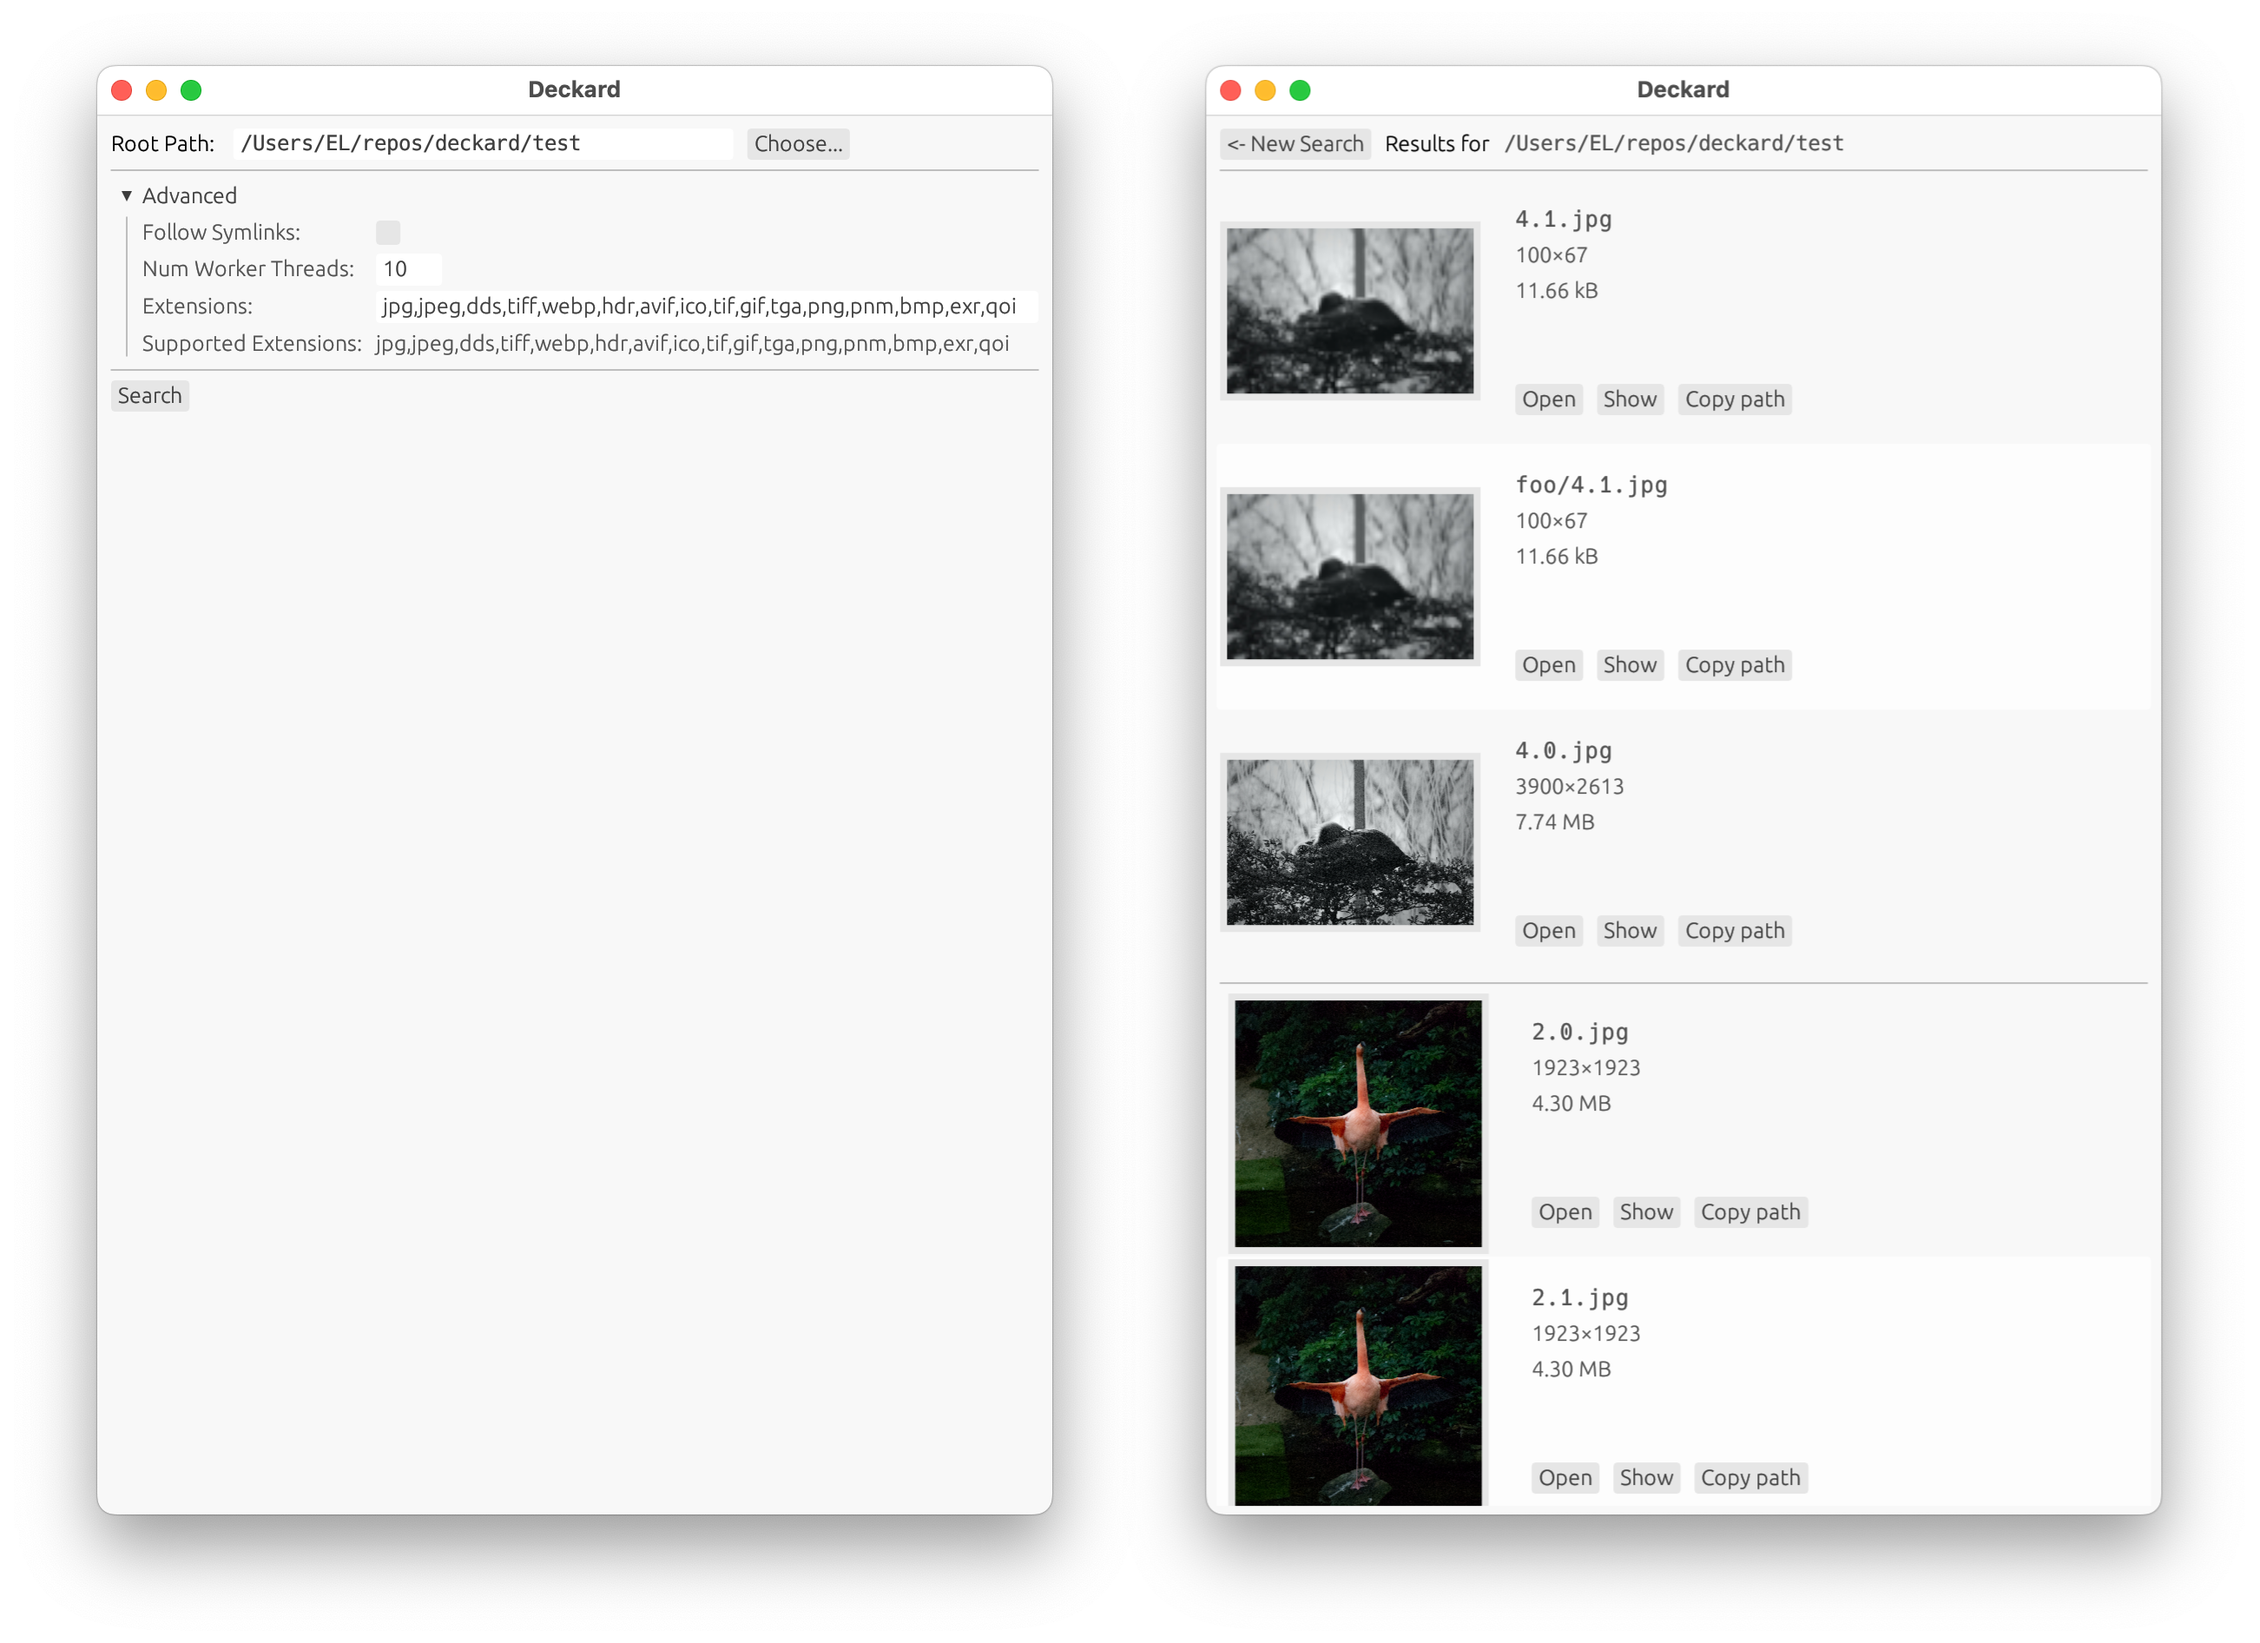
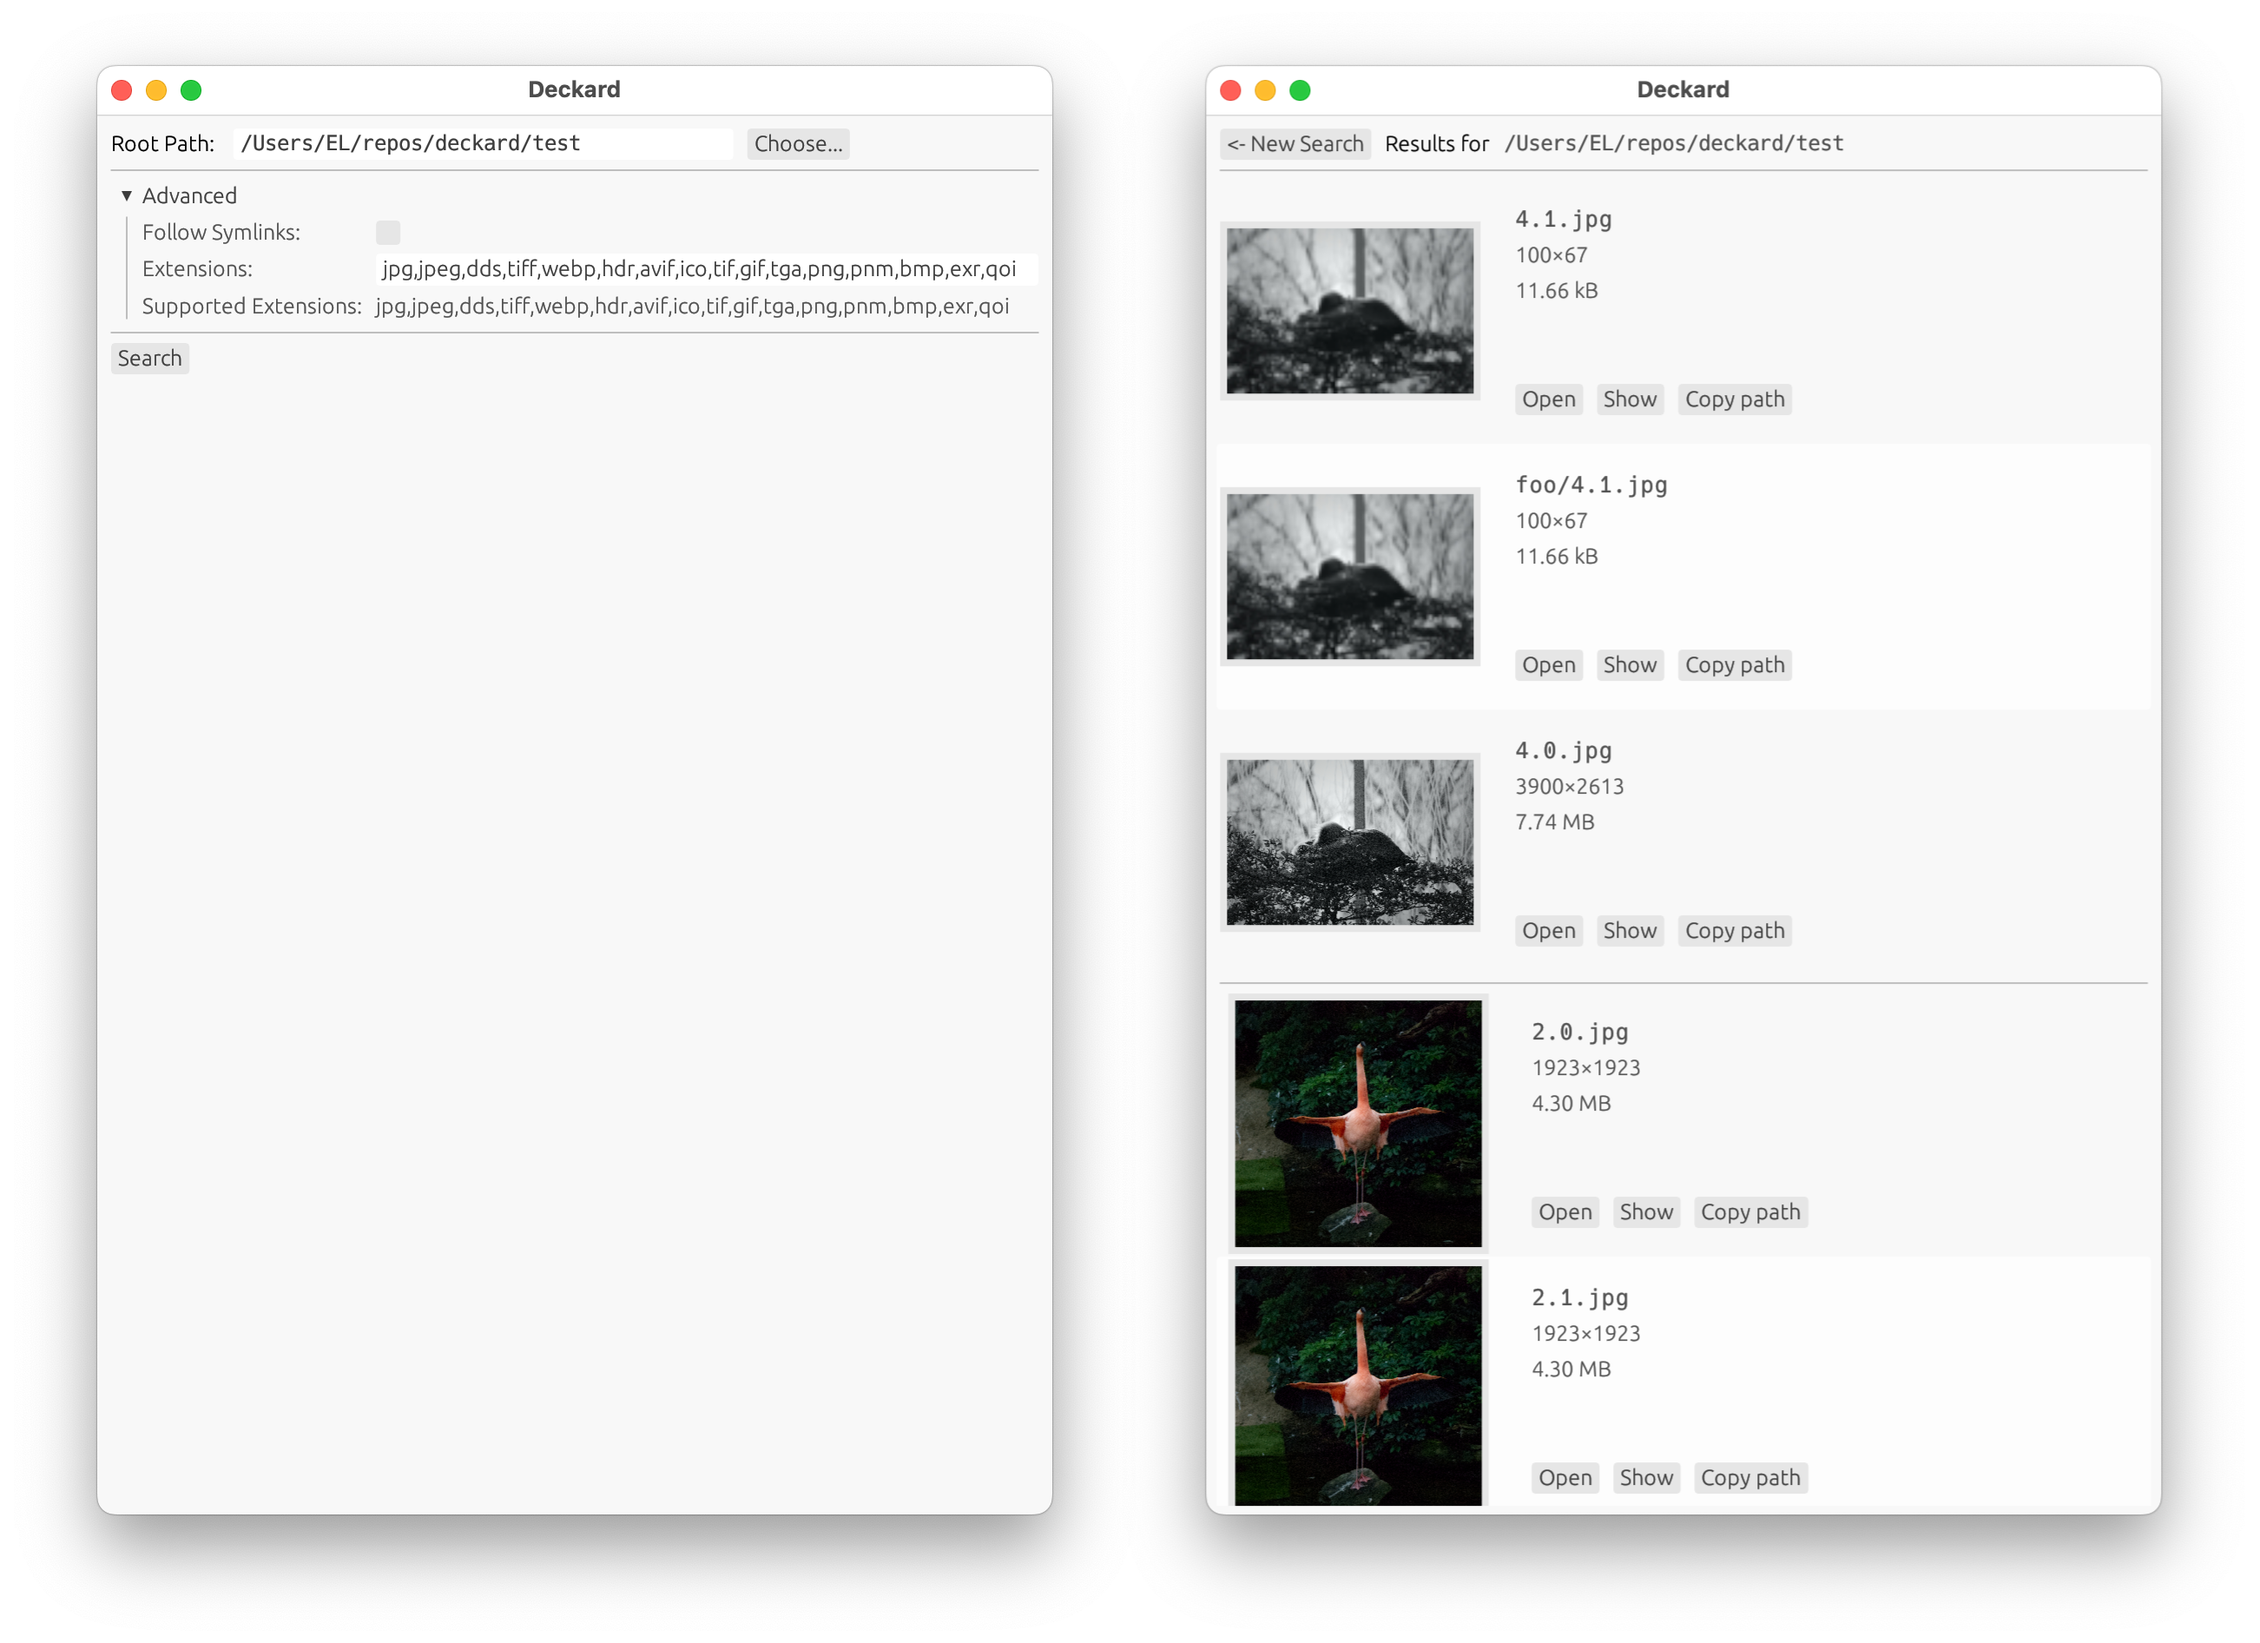
Switched to rayon, dashmap, removed Num Worker Threads option.

Changed region(s): [[0.0622, 0.1559, 0.4668, 0.2495]]

diff --git a/src/searcher.rs b/src/searcher.rs
@@ -2,22 +2,23 @@ use crate::misc::Image;
 
 use std::path::PathBuf;
 use std::thread;
-use std::sync::{Arc, Mutex};
+use std::sync::Arc;
 use std::sync::atomic::{AtomicBool, Ordering};
-use std::collections::{HashMap, HashSet};
+use std::collections::HashSet;
 use std::thread::JoinHandle;
 
 use walkdir::WalkDir;
-
-use magnetic::spmc::spmc_queue;
-use magnetic::buffer::dynamic::DynamicBuffer;
-use magnetic::{Producer, Consumer};
 
 use image_hasher::HasherConfig;
 
 use maplit::hashset;
 
 use lazy_static::lazy_static;
+
+use rayon::prelude::*;
+
+use dashmap::{DashMap, DashSet};
+
 
 lazy_static! {
     pub static ref SUPPORTED_EXTS: HashSet<&'static str> = hashset!{
@@ -58,109 +59,81 @@ impl SearchResults {
 struct SearcherInner {
     root: PathBuf,
     follow_sym: bool,
-    num_threads: usize,
     max_depth: Option<usize>,
     exts: HashSet<String>, // Extentions to consider
     cancel: AtomicBool,
 }
 
 impl SearcherInner {
+
     fn search(&self) -> SearchResults {
-        // The size is somewhat arbitrary, but its expected to take longer to
-        // process each unit of work than to produce it, so having twice as large
-        // a buffer as there are worker threads should ensure the workers always
-        // have work waiting.
-        let work_buf = DynamicBuffer::new(2 * self.num_threads)
-            .expect("Error allocationg spmc buffer");
-        let (queue_p, queue_c) = spmc_queue::<Option<std::path::PathBuf>, _>(work_buf);
-        let queue_c = Arc::new(queue_c);
+        let map = DashMap::new();
+        let errors = DashSet::new();
 
-        let map = Arc::new(Mutex::new(HashMap::new()));
-        let errors = Arc::new(Mutex::new(vec![]));
-
-        let mut threads = Vec::new();
-        for _ in 1..=self.num_threads {
-            let queue_c = queue_c.clone();
-            let map = map.clone();
-            let errors = errors.clone();
-
-            threads.push(thread::spawn(move || {
-                let hasher = HasherConfig::new().to_hasher();
-                loop {
-                    let Some(path) = queue_c.pop().expect("queue pop error") else {
-                        return; // We're done!
-                    };
-                    let image = match image::open(path.clone()) {
-                        Ok(x) => x,
-                        Err(e) => {
-                            let err = format!("Error opening image {}: {e}", path.display());
-                            errors.lock().expect("error vec lock error").push(err);
-                            continue;
-                        },
-                    };
-
-                    let hash = hasher.hash_image(&image);
-                    let mut map = map.lock().expect("image hash hashmap lock error");
-                    let v = map.entry(hash).or_insert(Vec::new());
-                    v.push(path);
-                }
-            }));
-        }
-
+        let hasher = HasherConfig::new().to_hasher();
         let mut walker = WalkDir::new(self.root.clone()).follow_links(self.follow_sym);
         if let Some(d) = self.max_depth { walker = walker.max_depth(d); }
-        for entry in walker {
+        let _: Result<(), ()> = walker.into_iter().par_bridge().map(|entry| {
+
+            if self.cancel.load(Ordering::Relaxed) {
+                return Err(());
+            }
+
             let entry = match entry {
                 Ok(x) => x,
                 Err(e) => {
                     let err = format!("Error walking directory: {e}");
-                    errors.lock().expect("error vec lock error").push(err);
-                    continue;
+                    errors.insert(err);
+                    return Ok(());
                 },
             };
-            if entry.file_type().is_dir() { continue; }
+            if entry.file_type().is_dir() {
+                return Ok(());
+            }
 
             let path = entry.path();
-            if let Some(ext) = path.extension() {
-                let s = ext.to_string_lossy();
-                if !self.exts.contains(&*s) { continue; }
-                queue_p.push(Some(path.to_owned())).expect("queue push error");
+            let Some(ext) = path.extension() else {
+                return Ok(());
+            };
+            let s = ext.to_string_lossy();
+            if !self.exts.contains(&*s) {
+                return Ok(());
             }
 
-            if self.cancel.load(Ordering::Relaxed) {
-                break;
-            }
-        }
+            let image = match image::open(path) {
+                Ok(x) => x,
+                Err(e) => {
+                    let err = format!("Error opening image {}: {e}", path.display());
+                    errors.insert(err);
+                    return Ok(())
+                },
+            };
 
-        for _ in 1..=threads.len() {
-            queue_p.push(None).expect("queue push error");
-        }
+            let hash = hasher.hash_image(&image);
+            map.entry(hash).or_insert(DashSet::new()).insert(path.to_path_buf());
 
-        for t in threads {
-            t.join().expect("thread join error");
-        }
+            Ok(())
+        }).collect();
 
-        if self.cancel.load(Ordering::Relaxed) {
-            return SearchResults::empty();
-        }
 
-        let mut errors = Arc::into_inner(errors).expect("arc into_inner error")
-            .into_inner().expect("mutex into_inner error");
-
-        let map = Arc::into_inner(map).expect("arc into_inner error")
-            .into_inner().expect("mutex into_inner");
-
+        // This part doesn't take very long (essentially 0 benefit for 
+        // paralleization), and requires a lot of extra complexity to make it 
+        // cancelable with rayon considering the nested loops.
         let mut duplicates = vec![];
         for (_, dups) in map.into_iter() {
+            if self.cancel.load(Ordering::Relaxed) {
+                return SearchResults::empty();
+            }
+
             if dups.len() <= 1 {
                 continue;
             }
 
             let mut v = vec![];
             for path in dups {
-                match Image::load(path) {
+                match Image::load(path.into()) {
                     Ok(x) => v.push(x),
-                    Err(e) => errors.push(e),
+                    Err(e) => { errors.insert(e); () },
                 }
 
                 if self.cancel.load(Ordering::Relaxed) {
@@ -172,7 +145,7 @@ impl SearcherInner {
 
         SearchResults {
             duplicates,
-            errors,
+            errors: errors.into_iter().collect(),
         }
     }
 
@@ -187,7 +160,6 @@ impl Searcher {
     pub fn new(
         root: PathBuf,
         follow_sym: bool,
-        num_threads: usize,
         max_depth: Option<usize>,
         exts: HashSet<String>
     ) -> Searcher {
@@ -195,7 +167,6 @@ impl Searcher {
             inner: Arc::new(SearcherInner{
                 root,
                 follow_sym,
-                num_threads,
                 max_depth,
                 exts,
                 cancel: AtomicBool::new(false),

diff --git a/src/startup_phase.rs b/src/startup_phase.rs
@@ -17,7 +17,6 @@ pub struct UserOpts {
     pub root: PathBuf,
     pub follow_sym: bool,
     pub max_depth: String,
-    pub num_worker_threads: String,
     pub exts: String,
 }
 
@@ -33,7 +32,6 @@ pub struct StartupPhase {
 
 impl StartupPhase {
     const ROOT_KEY: &'static str = "STARTUPPHASE_ROOT";
-    const NUM_WORKER_THREADS_WIDTH: f32 = 30.0;
 
     pub fn new_with_cc(cc: &eframe::CreationContext) -> StartupPhase {
         let root = cc.storage.map(|x| x.get_string(Self::ROOT_KEY))
@@ -44,7 +42,6 @@ impl StartupPhase {
         StartupPhase {
             opts: UserOpts {
                 root,
-                num_worker_threads: num_cpus::get().to_string(),
                 exts: SUPPORTED_EXTS.iter().join(","),
                 ..Default::default()
             },
@@ -82,25 +79,6 @@ impl StartupPhase {
         Ok(max_depth)
     }
 
-    fn parse_num_worker_threads(&self) -> Result<usize> {
-        let num_worker_threads = self.opts.num_worker_threads.parse::<usize>()
-            .map_err(|e| {
-                Error::new(
-                    "Error parsing num worker threads".to_string(),
-                    e.to_string(),
-                )
-            })?;
-
-        if num_worker_threads == 0 {
-            return Err(Error::new(
-                "Invalid num worker threads".to_string(),
-                "At least 1 worker thread is required".to_string(),
-            ));
-        }
-
-        Ok(num_worker_threads)
-    }
-
     fn parse_exts(&self) -> Result<HashSet<String>, Error> {
         let exts: HashSet<String> = self.opts.exts
             .split(',')
@@ -129,13 +107,11 @@ impl StartupPhase {
         }
 
         let max_depth = self.parse_max_depth()?;
-        let num_worker_threads = self.parse_num_worker_threads()?;
         let exts = self.parse_exts()?;
 
         let mut searcher = Searcher::new(
             self.opts.root.clone(),
             self.opts.follow_sym,
-            num_worker_threads,
             max_depth,
             exts,
         );
@@ -171,12 +147,6 @@ impl Phase for StartupPhase {
             egui::Grid::new(0).num_columns(2).show(ui, |ui| {
                 ui.label("Follow Symlinks:");
                 ui.checkbox(&mut self.opts.follow_sym, "");
-                ui.end_row();
-
-                ui.label("Num Worker Threads:");
-                let textedit = TextEdit::singleline(&mut self.opts.num_worker_threads)
-                    .desired_width(Self::NUM_WORKER_THREADS_WIDTH);
-                ui.add(textedit);
                 ui.end_row();
 
                 ui.label("Extensions:");

diff --git a/src/searching_phase.rs b/src/searching_phase.rs
@@ -37,12 +37,8 @@ impl SearchingPhase {
 impl Phase for SearchingPhase {
     fn render(&mut self, _ctx: &egui::Context, ui: &mut egui::Ui) -> Result<Option<DynPhase>> {
         if self.searcher.is_finished() {
-            if self.searcher.was_canceled() {
-                self.searcher.join();
-                return Ok(Some(StartupPhase::new_with_opts(self.opts.take()).into_dyn()));
-            } else {
-                return Ok(Some(self.make_output_phase()));
-            }
+            assert!(!self.searcher.was_canceled());
+            return Ok(Some(self.make_output_phase()));
         }
 
         let resp = ui.horizontal(|ui| {
